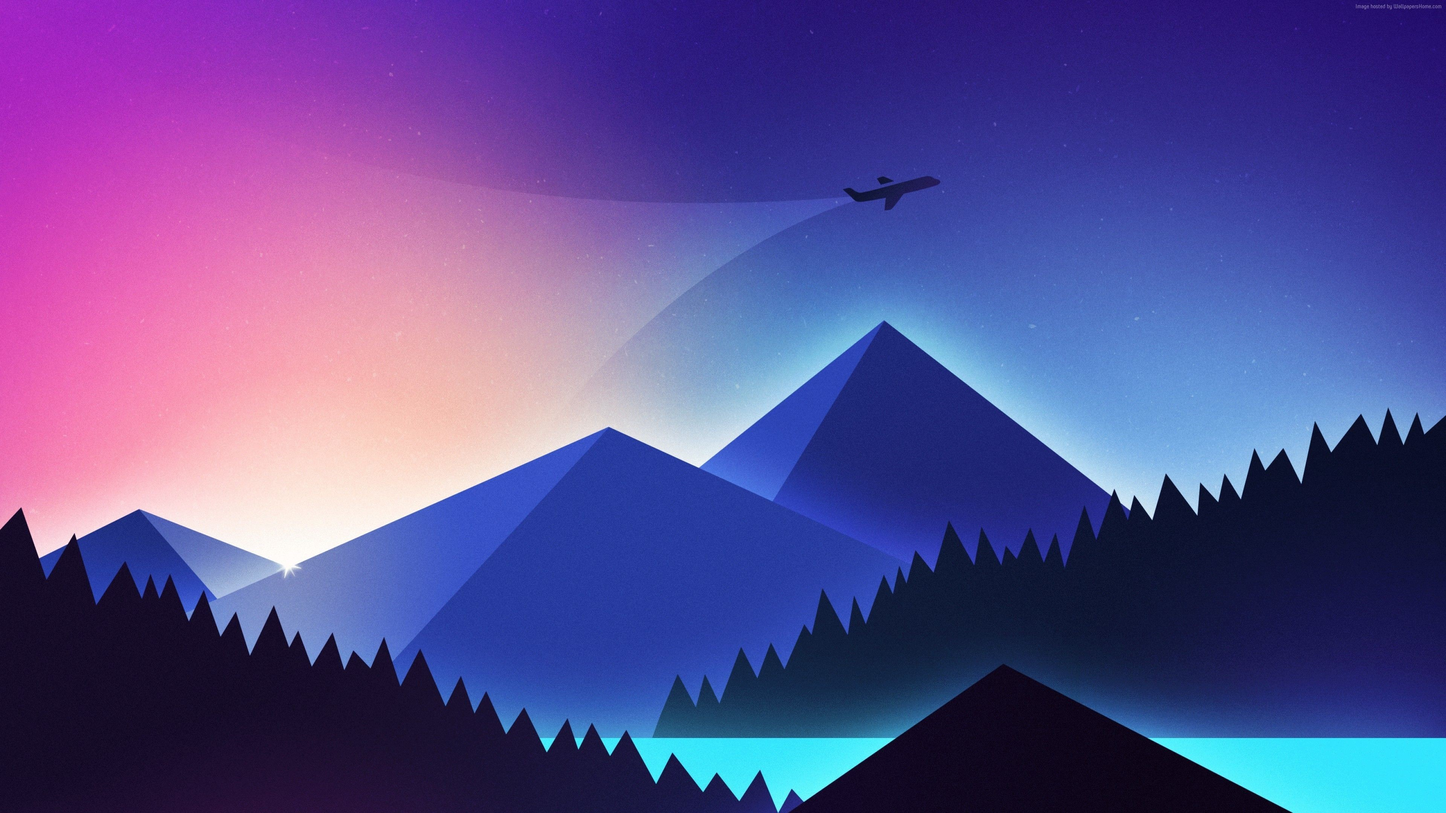
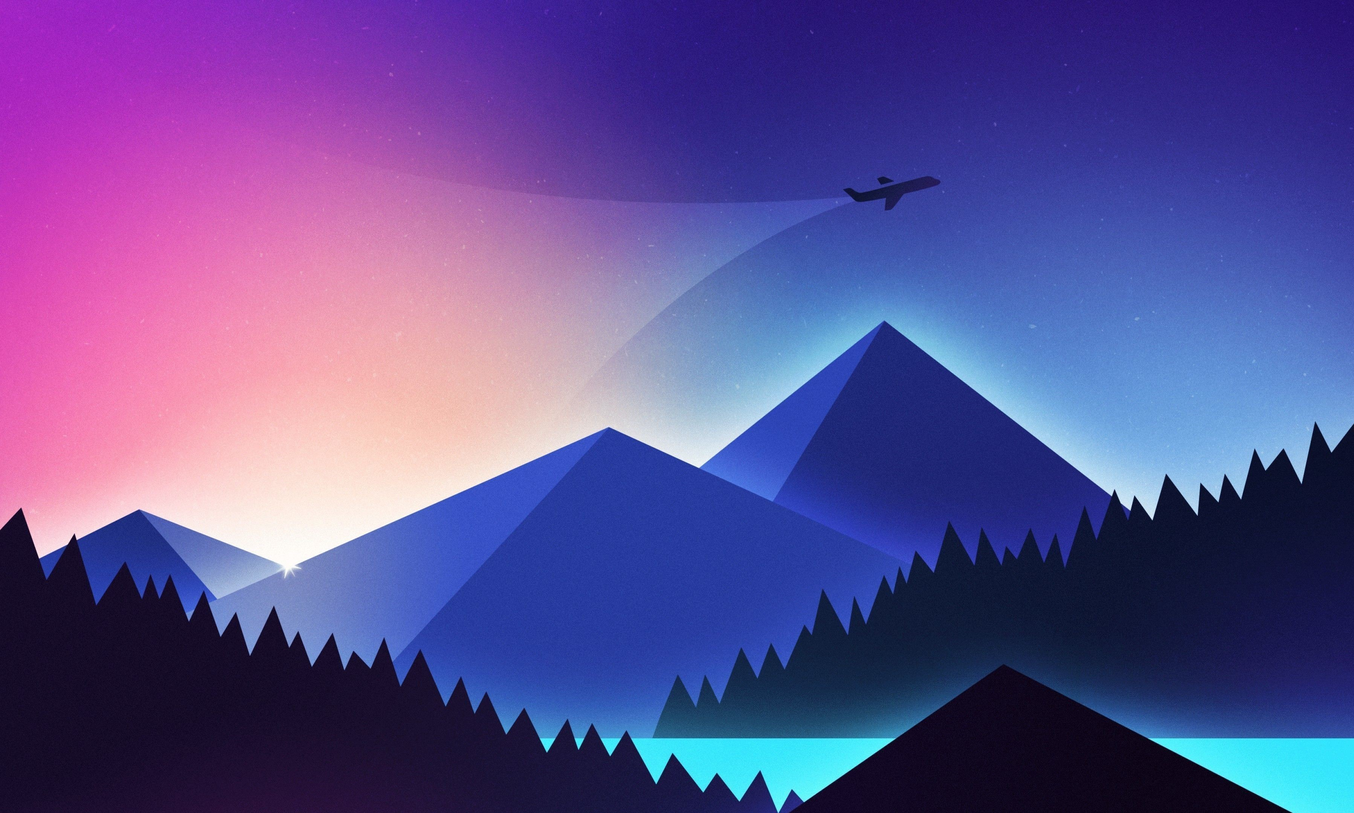
styling and menu btn animation

diff --git a/index.html b/index.html
@@ -11,44 +11,43 @@
         <link rel="stylesheet" href="assets/css/style.css">
     </head>
     <body id="background">
-        <div id="overlay">
-            <header>
-                <!-- menu lines -->
-                <div class="menu-btn">
-                    <div class="btn-line"></div>
-                    <div class="btn-line"></div>
-                    <div class="btn-line"></div>
+        <div class="overlay"></div>
+        <header>
+            <!-- menu lines -->
+            <div class="menu-btn">
+                <div class="btn-line"></div>
+                <div class="btn-line"></div>
+                <div class="btn-line"></div>
+            </div>
+            <nav class="menu">
+                <div class="menu-branding">
+                    <div class="portrait"></div>
                 </div>
-                <div class="menu">
-                    <div class="menu-branding">
-                        <div class="portrait"></div>
-                    </div>
-                    <ul class="nav-list">
-                        <li class="nav-item">
-                            <a href="/" class="nav-link">Home</a>
-                        </li>
-                        <li class="nav-item">
-                            <a href="/" class="nav-link">About Me</a>
-                        </li>
-                        <li class="nav-item">
-                            <a href="/" class="nav-link">My Work</a>
-                        </li>
-                        <li class="nav-item">
-                            <a href="/" class="nav-link">Contact Me</a>
-                        </li>
-                    </ul>
-                </div>
-            </header>
-            <main id="home">
-                <h1 class="lg-heading">Jaxon <span class="secondary-text">Adams</span></h1>
-                <h2 class="sm-heading">Full Stack Developer</h2>
-                <div id="icons">
-                    <a href="" class="nav-link"><span class="icon-link bi bi-github"></span></a>
-                    <a href="" class="nav-link"><span class="icon-link bi bi-instagram"></span></a>
-                    <a href="" class="nav-link"><span class="icon-link bi bi-linkedin"></span></a>
-                </div>
-            </main>
-        </div>
+                <ul class="nav-list">
+                    <li class="nav-item">
+                        <a href="/" class="nav-item">Home</a>
+                    </li>
+                    <li class="nav-item">
+                        <a href="/" class="nav-item">About Me</a>
+                    </li>
+                    <li class="nav-item">
+                        <a href="/" class="nav-item">My Work</a>
+                    </li>
+                    <li class="nav-item">
+                        <a href="/" class="nav-item">Contact Me</a>
+                    </li>
+                </ul>
+            </nav>
+        </header>
+        <main id="home">
+            <h1 class="lg-heading">Jaxon <span class="secondary-text">Adams</span></h1>
+            <h2 class="sm-heading">Full Stack Developer</h2>
+            <div id="icons">
+                <a href="https://github.com/JaxonAdams" target="_Blank" class="nav-link"><span class="icon-link bi bi-github"></span></a>
+                <a href="https://www.instagram.com/jj_adams01/" target="_Blank" class="nav-link"><span class="icon-link bi bi-instagram"></span></a>
+                <a href="https://www.linkedin.com/in/jaxon-adams-ba5743229/" target="_Blank" class="nav-link"><span class="icon-link bi bi-linkedin"></span></a>
+            </div>
+        </main>
         
 
         <script src="https://ajax.googleapis.com/ajax/libs/jquery/3.5.1/jquery.min.js"></script>

diff --git a/assets/css/style.css b/assets/css/style.css
@@ -9,3 +9,125 @@
     box-sizing: border-box;
 }
 
+body {
+    background-color: var(--primary-color);
+    color: var(--quaternary-color);
+    height: 100%;
+    margin: 0;
+    font-family:'Segoe UI', Tahoma, Geneva, Verdana, sans-serif;
+    line-height: 1.5;
+}
+
+.overlay {
+    position: absolute;
+    top: 0;
+    right: 0;
+    width: 100%;
+    height: 100%;
+    z-index: -1;
+    background-color: rgba(46, 146, 148, 0.2);
+}
+
+#background {
+    background: url(../images/background.jpg);
+    background-attachment: fixed;
+    background-size: cover;
+}
+
+/* headings */
+h1, h2, h3 {
+    margin: 0;
+    text-shadow: 0 0 5px #2C3531;
+}
+
+.lg-heading {
+    font-size: 10rem;
+    margin-top: 20vh;
+}
+
+.sm-heading {
+    font-size: 4rem;
+    margin-bottom: 2rem;
+    padding: 0.2rem 1rem;
+    background-color: rgba(44, 53, 49, 0.5);
+    font-style: italic;
+    box-shadow: 0 0 5px #2C3531;
+}
+
+a {
+    color: var(--quaternary-color);
+    text-decoration: none;
+}
+
+header {
+    position: fixed;
+    z-index: 2;
+    width: 100%;
+}
+
+.secondary-text {
+    color: var(--tertiary-color);
+}
+
+main {
+    padding: 4rem;
+    height: 100%;
+}
+
+main #home {
+    overflow: hidden;
+}
+
+main .icons {
+    margin-top: 1rem;
+}
+
+.icon-link {
+    font-size: 38px;
+    padding: 0.8rem;
+    text-shadow: 0 0 5px #2C3531;
+}
+
+.icon-link:hover {
+    color: var(--tertiary-color);
+    transition: all 0.5s ease-out;
+}
+
+/* menu */
+.menu-btn {
+    position: absolute;
+    z-index: 3;
+    right: 35px;
+    top: 35px;
+    cursor: pointer;
+    transition: all 0.5s ease-out;
+}
+
+.btn-line {
+    width: 28px;
+    height: 3px;
+    margin-bottom: 5px;
+    background: var(--quaternary-color);
+    transition: all 0.5s ease-out;
+}
+
+/* menu btn transition */
+.close {
+    /* rotate into X */
+    transform: rotate(180deg);
+}
+
+/* line one: rotate */
+.close .btn-line:nth-child(1) {
+    transform: rotate(45deg) translate(5px, 5px);
+}
+
+/* line two: hide */
+.close .btn-line:nth-child(2) {
+    opacity: 0;
+}
+
+/* line three: rotate */
+.close .btn-line:nth-child(3) {
+    transform: rotate(-45deg) translate(7px, -6px);
+}

diff --git a/assets/js/script.js b/assets/js/script.js
@@ -1,0 +1,35 @@
+var menuBtn = document.querySelector(".menu-btn");
+var navMenu = document.querySelector(".menu");
+var menuBranding = document.querySelector(".menu-branding");
+var navList = document.querySelector(".nav-list");
+var navLinks = document.querySelectorAll(".nav-item");
+
+// Set initial state of the menu
+let showMenu = false;
+
+// Toggle menu function
+var toggleMenu = function() {
+    if(!showMenu) {
+        menuBtn.classList.add("close");
+        navMenu.classList.add("show");
+        menuBranding.classList.add("show");
+        navList.classList.add("show");
+        navLinks.forEach(item => item.classList.add("show"));
+
+        // Set menu state
+        showMenu = true;
+    } else {
+        menuBtn.classList.remove("close");
+        navMenu.classList.remove("show");
+        menuBranding.classList.remove("show");
+        navList.classList.remove("show");
+        navLinks.forEach(item => item.classList.remove("show"));
+
+        // Set menu state
+        showMenu = false;
+    }
+}
+
+
+menuBtn.addEventListener("click", toggleMenu);
+
